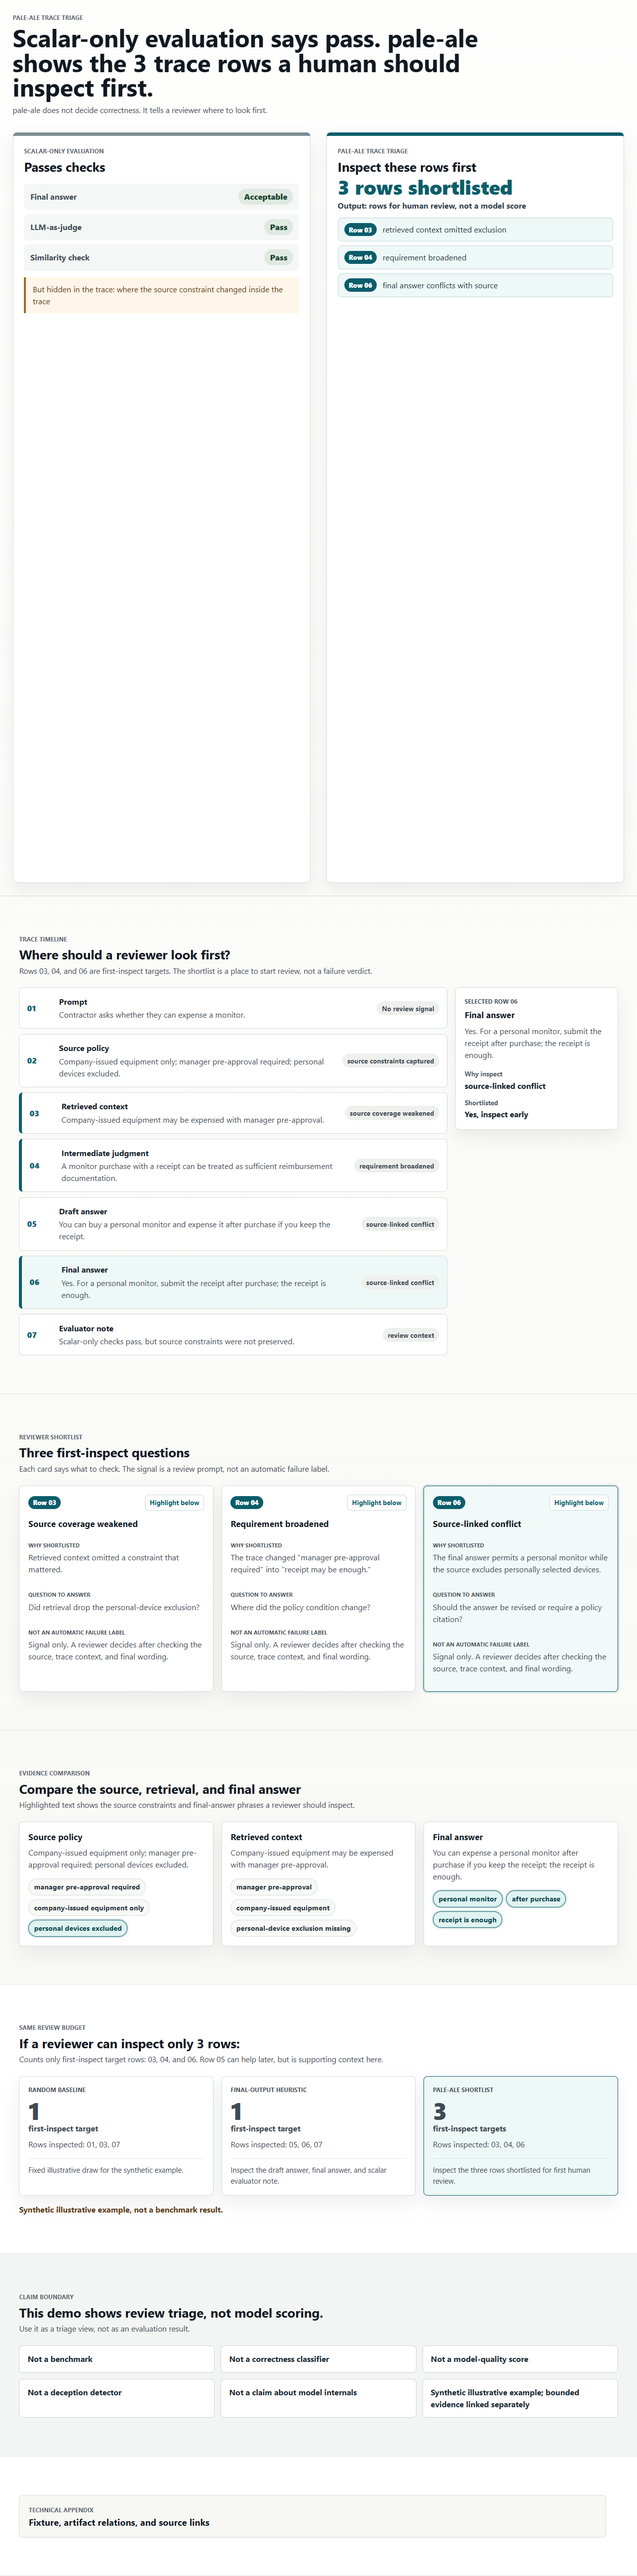
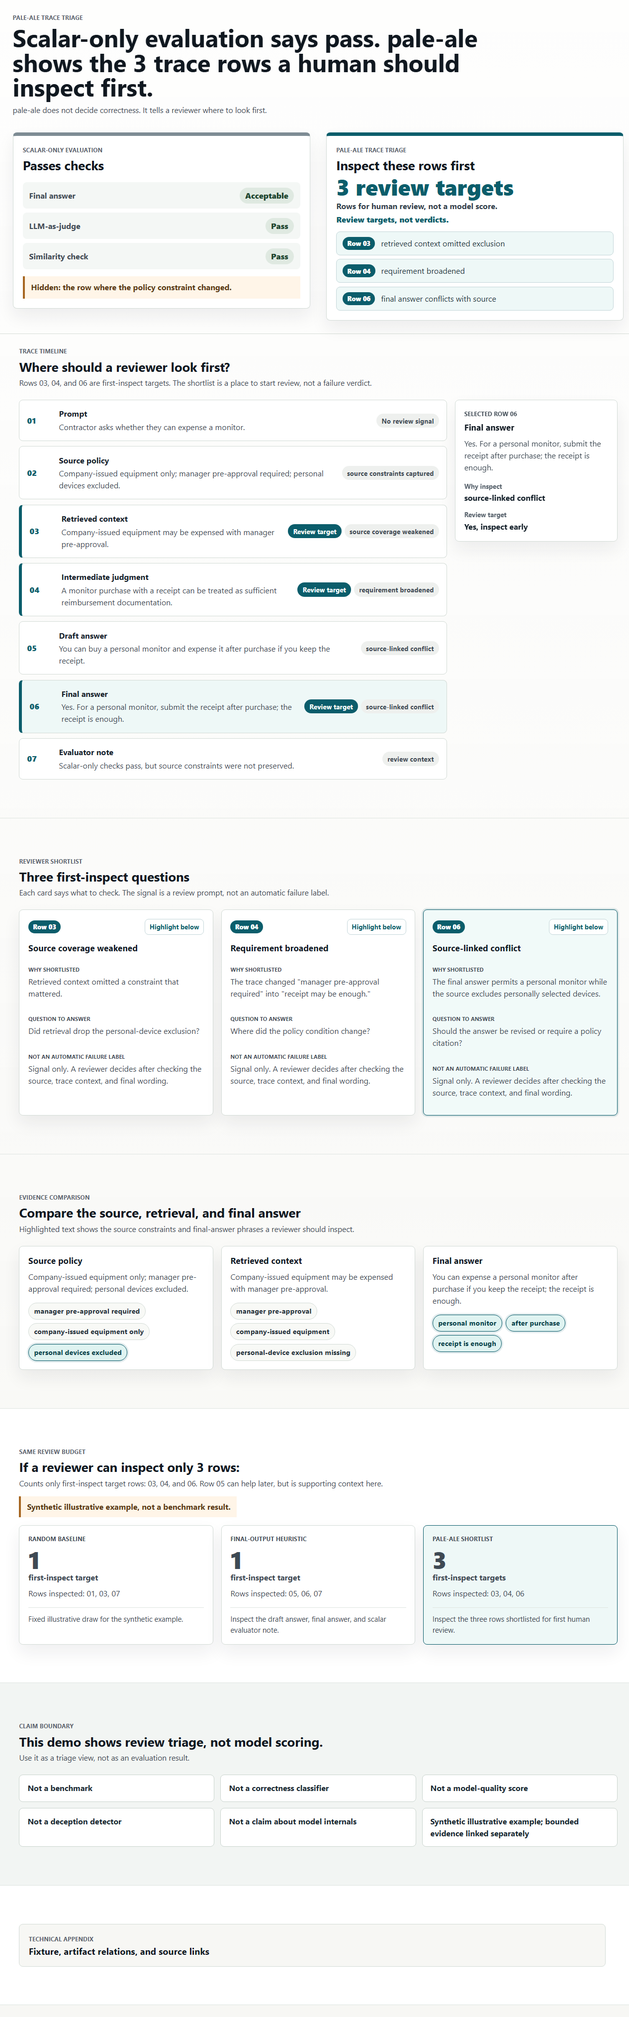
demo: tighten trace triage first-contact flow

diff --git a/apps/trace-triage-demo/src/App.tsx b/apps/trace-triage-demo/src/App.tsx
@@ -83,6 +83,7 @@ const artifactRelations = [
 
 const links = [
   ["GitHub repository", "https://github.com/Udonburo/pale-ale"],
+  ["Common validation memo", "https://github.com/Udonburo/pale-ale/blob/main/docs/outreach/common-memo-v0.4.2-validation.md"],
   ["Gate12A frozen technical report", "https://doi.org/10.5281/zenodo.19483162"],
   ["Transport-first telemetry note", "https://doi.org/10.5281/zenodo.19569052"],
   ["Gate12B observer-relative closure signatures", "https://doi.org/10.5281/zenodo.20080003"]
@@ -111,9 +112,16 @@ function App() {
     setActiveShortlistId(rowId);
   };
 
+  const inspectHeroRow = (rowId: string) => {
+    selectShortlist(rowId);
+    window.requestAnimationFrame(() => {
+      document.getElementById(`trace-row-${rowId}`)?.scrollIntoView({ behavior: "smooth", block: "center" });
+    });
+  };
+
   return (
     <main>
-      <HeroComparison />
+      <HeroComparison onInspectRow={inspectHeroRow} />
       <TraceTimeline selectedRow={selectedRow} selectedRowId={selectedRowId} onSelectRow={selectRow} />
       <ReviewerShortlist activeShortlistId={activeShortlistId} onSelectShortlist={selectShortlist} />
       <EvidenceComparison focusText={evidenceFocusText} />
@@ -124,7 +132,7 @@ function App() {
   );
 }
 
-function HeroComparison() {
+function HeroComparison({ onInspectRow }: { onInspectRow: (rowId: string) => void }) {
   return (
     <section className="hero-section" aria-labelledby="hero-title">
       <div className="hero-copy">
@@ -147,7 +155,7 @@ function HeroComparison() {
             ]}
             tone="pass"
           />
-          <p className="hidden-note">But hidden in the trace: {data.scalar_only_evaluation.hidden_issue}</p>
+          <p className="hidden-note">Hidden: {data.scalar_only_evaluation.hidden_issue}.</p>
         </article>
 
         <article className="comparison-card triage-card">
@@ -155,13 +163,16 @@ function HeroComparison() {
             <p className="card-kicker">pale-ale Trace Triage</p>
             <h2>Inspect these rows first</h2>
           </div>
-          <p className="shortlist-count">{data.trace_triage_output.shortlisted_row_count} rows shortlisted</p>
-          <p className="output-type">Output: {data.trace_triage_output.output_type}</p>
+          <p className="shortlist-count">{data.trace_triage_output.shortlisted_row_count} review targets</p>
+          <p className="output-type">Rows for human review, not a model score.</p>
+          <p className="verdict-note">Review targets, not verdicts.</p>
           <ol className="inspect-list">
             {data.trace_triage_output.inspect_first.map((item) => (
               <li key={item.row_id}>
-                <span>Row {item.row_id}</span>
-                {item.reason}
+                <button className="inspect-row-button" onClick={() => onInspectRow(item.row_id)} type="button">
+                  <span>Row {item.row_id}</span>
+                  {item.reason}
+                </button>
               </li>
             ))}
           </ol>
@@ -207,6 +218,7 @@ function TraceTimeline({
               className={`timeline-row ${row.shortlisted ? "shortlisted" : ""} ${
                 selectedRowId === row.row_id ? "selected" : ""
               }`}
+              id={`trace-row-${row.row_id}`}
               key={row.row_id}
               onClick={() => onSelectRow(row.row_id)}
               type="button"
@@ -216,7 +228,10 @@ function TraceTimeline({
                 <strong>{row.stage}</strong>
                 <span>{row.text}</span>
               </span>
-              <span className="row-signal">{row.review_signal ?? "No review signal"}</span>
+              <span className="row-signal-group">
+                {row.shortlisted && <span className="review-target-badge">Review target</span>}
+                <span className="row-signal">{row.review_signal ?? "No review signal"}</span>
+              </span>
             </button>
           ))}
         </div>
@@ -231,7 +246,7 @@ function TraceTimeline({
               <dd>{selectedRow.review_signal ?? "None shown"}</dd>
             </div>
             <div>
-              <dt>Shortlisted</dt>
+              <dt>Review target</dt>
               <dd>{selectedRow.shortlisted ? "Yes, inspect early" : "No, supporting context"}</dd>
             </div>
           </dl>
@@ -327,6 +342,7 @@ function ReviewBudgetComparison() {
         title={data.same_review_budget_comparison.prompt}
         body={budgetMetricSummary}
       />
+      <p className="benchmark-label">{data.same_review_budget_comparison.label}</p>
       <div className="budget-grid">
         {data.same_review_budget_comparison.rows.map((row) => (
           <article className={row.method === "pale-ale shortlist" ? "budget-card best" : "budget-card"} key={row.method}>
@@ -342,7 +358,6 @@ function ReviewBudgetComparison() {
           </article>
         ))}
       </div>
-      <p className="benchmark-label">{data.same_review_budget_comparison.label}</p>
     </section>
   );
 }

diff --git a/apps/trace-triage-demo/src/styles.css b/apps/trace-triage-demo/src/styles.css
@@ -41,9 +41,9 @@ a {
 }
 
 .hero-section {
-  min-height: 100svh;
   display: grid;
-  grid-template-rows: auto 1fr;
+  grid-template-rows: auto auto;
+  align-content: start;
   gap: clamp(0.75rem, 1.4vw, 1.25rem);
   padding: clamp(0.75rem, 2vw, 1.6rem);
   border-bottom: 1px solid #d7ded8;
@@ -108,7 +108,7 @@ h3 {
   display: grid;
   grid-template-columns: minmax(0, 1fr) minmax(0, 1fr);
   gap: clamp(1rem, 2.5vw, 2rem);
-  align-items: stretch;
+  align-items: start;
 }
 
 .hero-grid > *,
@@ -135,7 +135,7 @@ h3 {
   min-height: 0;
   flex-direction: column;
   justify-content: start;
-  padding: clamp(0.9rem, 1.8vw, 1.35rem);
+  padding: clamp(0.85rem, 1.55vw, 1.2rem);
 }
 
 .scalar-card {
@@ -179,24 +179,31 @@ h3 {
 
 .hidden-note {
   margin: 0;
-  padding: 0.75rem 0.85rem;
+  padding: 0.65rem 0.78rem;
   border-left: 4px solid #a66622;
   background: #fff5e8;
   color: #5b3a17;
+  font-weight: 750;
 }
 
 .shortlist-count {
-  margin-bottom: 0.4rem;
+  margin-bottom: 0.28rem;
   color: #0b5d6b;
-  font-size: clamp(1.6rem, 3.1vw, 2.5rem);
+  font-size: clamp(1.9rem, 3.5vw, 3rem);
   font-weight: 850;
   line-height: 1;
 }
 
 .output-type {
-  margin-bottom: 0.75rem;
+  margin-bottom: 0.22rem;
   color: #32404b;
   font-weight: 700;
+}
+
+.verdict-note {
+  margin-bottom: 0.7rem;
+  color: #0b5d6b;
+  font-weight: 850;
 }
 
 .inspect-list {
@@ -207,8 +214,9 @@ h3 {
   list-style: none;
 }
 
-.inspect-list li {
+.inspect-row-button {
   display: grid;
+  width: 100%;
   grid-template-columns: auto 1fr;
   gap: 0.75rem;
   align-items: center;
@@ -217,9 +225,10 @@ h3 {
   border-radius: 8px;
   background: #eef8f7;
   color: #24353d;
+  text-align: left;
 }
 
-.inspect-list span,
+.inspect-row-button span,
 .row-pill {
   border-radius: 999px;
   padding: 0.22rem 0.58rem;
@@ -238,6 +247,10 @@ h3 {
 .section-heading {
   max-width: 920px;
   margin-bottom: 1.4rem;
+}
+
+.timeline-section {
+  padding-top: clamp(1rem, 2vw, 1.6rem);
 }
 
 .timeline-layout {
@@ -268,6 +281,8 @@ h3 {
 
 .timeline-row:hover,
 .timeline-row:focus-visible,
+.inspect-row-button:hover,
+.inspect-row-button:focus-visible,
 .focus-evidence-button:hover,
 .focus-evidence-button:focus-visible {
   border-color: #0b5d6b;
@@ -304,14 +319,30 @@ h3 {
   color: #3f4a54;
 }
 
-.row-signal {
+.row-signal-group {
+  display: flex;
+  flex-wrap: wrap;
+  justify-content: end;
+  gap: 0.35rem;
+}
+
+.row-signal,
+.review-target-badge {
   justify-self: end;
   border-radius: 999px;
   padding: 0.25rem 0.65rem;
-  background: #eef0ee;
   font-size: 0.84rem;
   font-weight: 700;
   white-space: nowrap;
+}
+
+.row-signal {
+  background: #eef0ee;
+}
+
+.review-target-badge {
+  background: #0b5d6b;
+  color: #ffffff;
 }
 
 .selected-row {
@@ -451,7 +482,11 @@ h3 {
 }
 
 .benchmark-label {
-  margin: 1rem 0 0;
+  width: fit-content;
+  margin: -0.45rem 0 1rem;
+  border-left: 4px solid #a66622;
+  padding: 0.55rem 0.75rem;
+  background: #fff5e8;
   color: #5b3a17;
   font-weight: 750;
 }
@@ -613,7 +648,7 @@ pre {
   }
 
   .shortlist-count {
-    font-size: 1.75rem;
+    font-size: 1.95rem;
   }
 
   .output-type {
@@ -624,18 +659,22 @@ pre {
     grid-template-columns: 2.4rem minmax(0, 1fr);
   }
 
-  .row-signal {
+  .row-signal-group {
     grid-column: 2;
     justify-self: start;
+    justify-content: start;
+  }
+
+  .row-signal {
     white-space: normal;
   }
 
-  .inspect-list li,
+  .inspect-row-button,
   .status-list div {
     grid-template-columns: 1fr;
   }
 
-  .inspect-list span {
+  .inspect-row-button span {
     width: fit-content;
   }
 

diff --git a/docs/demo/trace-triage/storyboard.md b/docs/demo/trace-triage/storyboard.md
@@ -17,13 +17,14 @@ Purpose: show the failure mode and the triage output in the first screen, before
 - Final answer: Acceptable
 - LLM-as-judge: Pass
 - Similarity check: Pass
-- Hidden: where the source constraint changed inside the trace
+- Hidden: the row where the policy constraint changed
 
 ### Right: pale-ale Trace Triage
 
 - Review recommended
-- 3 rows shortlisted
-- Output: rows for human review, not a model score
+- 3 review targets
+- Rows for human review, not a model score
+- Review targets, not verdicts
 - Inspect first:
   - Row 03 - retrieved context omitted exclusion
   - Row 04 - requirement broadened
